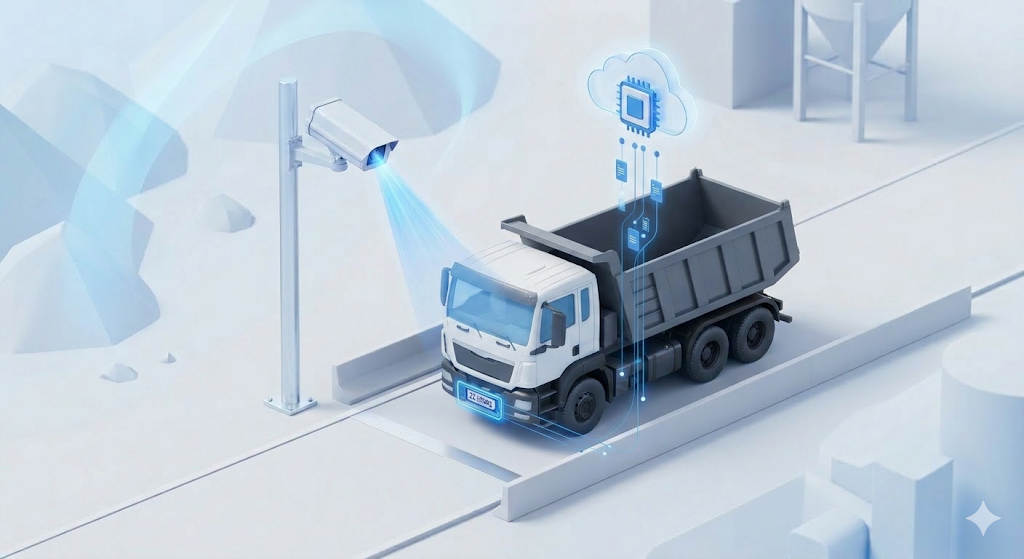
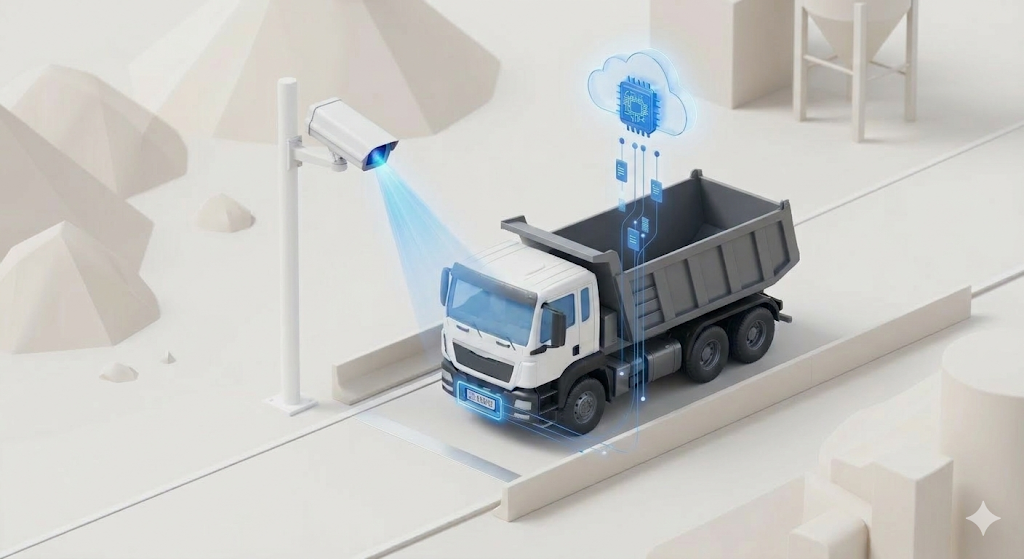
ssk

diff --git a/index.html b/index.html
@@ -383,7 +383,7 @@ best erp for construction materials,quarry crusher rmc plant erp,construction in
 
                 <a href="/features/fleet-management-software.html" class="cards fleet">
                     <div class="cards-img-wrap">
-                        <img loading="lazy" src="/src/assets/contentImages/Fleet.avif" alt="Fleet Management">
+                        <img loading="lazy" src="/src/assets/images/app1.png" alt="Fleet Management">
                     </div>
                     <h2>Fleet Management</h2>
                     <p>Vehicle tracking, trip management & fuel monitoring for quarry fleets</p>
